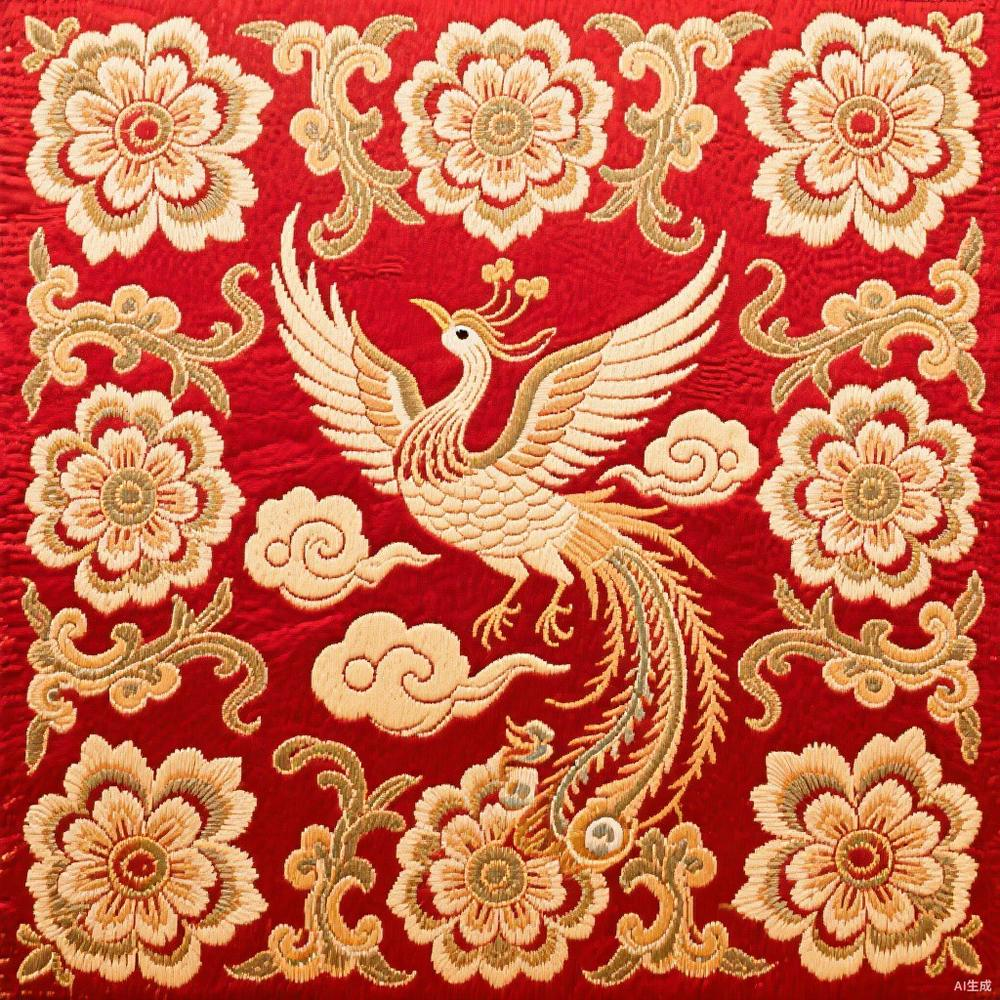
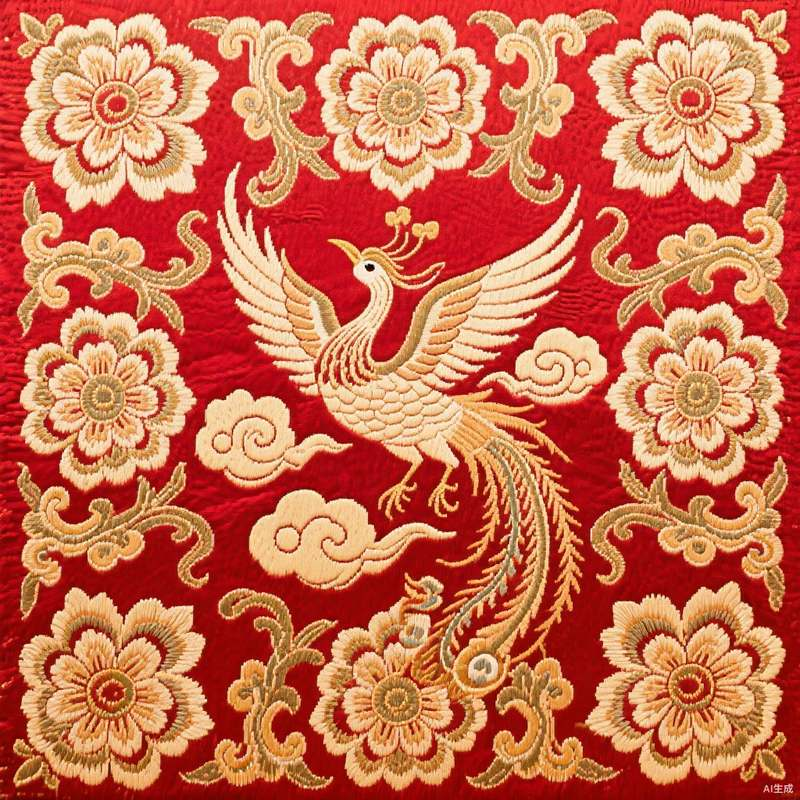
perf: 图片压缩为JPG(5.5MB→2.3MB)并清理嵌套旧目录，修复国内访问加载超时

diff --git a/js/g8-magnifier.js b/js/g8-magnifier.js
@@ -47,7 +47,7 @@
       /* ====== 图片双源预加载：jsDelivr 国内 CDN 优先（快），失败自动回退 GitHub 源 ====== */
       var imgState = {}; // 相对路径 -> {ok, loading, fails, srcIdx, url, im, waiters}
 
-      // 后台加载单张：CDN 源 15 秒超时、GitHub 源 40 秒，各自动重试 2 次
+      // 后台加载单张：CDN 源 8 秒超时、只试 1 次快速回退；GitHub 源 30 秒、重试 3 次
       function fetchImg(rel) {
         var st = imgState[rel] ||
           (imgState[rel] = { ok: false, loading: false, fails: 0, srcIdx: 0, url: null, im: null, waiters: [] });
@@ -57,7 +57,7 @@
         var curUrl = useCdn ? G.cdn(rel) : rel;
         var im = new Image();
         st.im = im;
-        var timer = setTimeout(function () { finish(new Error('timeout')); }, useCdn ? 15000 : 40000);
+        var timer = setTimeout(function () { finish(new Error('timeout')); }, useCdn ? 8000 : 30000);
         function notify(ok, phase) {
           st.waiters.slice().forEach(function (cb) { cb(ok, phase); });
         }
@@ -70,16 +70,16 @@
             st.ok = true; st.fails = 0; st.url = curUrl;
             notify(true, 'ok');
             st.waiters = [];
-          } else if (st.fails < 2) {
-            st.fails++;
-            notify(false, 'retrying'); // UI 显示"重试中"，等待者保留
-            again(2000);
           } else if (st.srcIdx === 0) {
-            st.srcIdx = 1; st.fails = 0;   // CDN 两路重试均败 → 切 GitHub 源
+            st.srcIdx = 1; st.fails = 0;   // CDN 一次不通立刻切 GitHub 源，不浪费时间
             notify(false, 'retrying');
-            again(1500);
+            again(800);
+          } else if (st.fails < 3) {
+            st.fails++;
+            notify(false, 'retrying');
+            again(2000);
           } else {
-            notify(false, 'fatal');    // 通知显示手动重试按钮，等待者保留
+            notify(false, 'fatal');
           }
         }
         im.onload = function () { finish(null); };
@@ -114,8 +114,8 @@
           '</div>' +
           '<div class="mag-wrap">' +
             '<div class="mag-board"><div class="mag-lens"></div>' +
-              '<div class="mag-mask"><span class="mag-spinner"></span><span class="mag-mask-text">织锦生成中 · 请稍候</span>' +
-              '<button type="button" class="mag-retry" hidden>图片生成失败，点此重新加载</button></div>' +
+              '<div class="mag-mask"><span class="mag-spinner"></span><span class="mag-mask-text">图片加载中 · 请稍候</span>' +
+              '<button type="button" class="mag-retry" hidden>图片加载失败，点此重新加载</button></div>' +
             '</div>' +
             '<div class="mag-side">' +
               '<h3>第 ' + (roundIdx + 1) + ' / 4 幅锦样</h3>' +
@@ -144,12 +144,12 @@
           mask.hidden = false;
           if (mode === 'fatal') {
             spinner.hidden = true;
-            maskText.textContent = '织锦生成遇到问题';
+            maskText.textContent = '图片加载遇到问题';
             retryBtn.hidden = false;
           } else {
             spinner.hidden = false;
             retryBtn.hidden = true;
-            maskText.textContent = mode === 'retrying' ? '生成重试中 · 请稍候' : '织锦生成中 · 请稍候';
+            maskText.textContent = mode === 'retrying' ? '正在切换线路 · 请稍候' : '图片加载中 · 请稍候';
           }
         }
         function applyImage() {

diff --git a/index.html b/index.html
@@ -4,7 +4,7 @@
 <meta charset="UTF-8">
 <meta name="viewport" content="width=device-width, initial-scale=1.0">
 <title>德阳文化探秘 · 九大讲解员互动小游戏</title>
-<link rel="stylesheet" href="style.css?v=28">
+<link rel="stylesheet" href="style.css?v=29">
 </head>
 <body>
 
@@ -43,17 +43,17 @@
   <button id="resetBtn2" class="link-btn">重置收集进度</button>
 </footer>
 
-<script src="js/common.js?v=28"></script>
-<script src="js/g1-puzzle.js?v=28"></script>
-<script src="js/g2-scratch.js?v=28"></script>
-<script src="js/g3-balloons.js?v=28"></script>
-<script src="js/g4-coloring.js?v=28"></script>
-<script src="js/g5-hidden.js?v=28"></script>
-<script src="js/g6-rain.js?v=28"></script>
-<script src="js/g7-dialogue.js?v=28"></script>
-<script src="js/g8-magnifier.js?v=28"></script>
-<script src="js/g9-cooking.js?v=28"></script>
-<script src="js/main.js?v=28"></script>
-<script src="js/report.js?v=28"></script>
+<script src="js/common.js?v=29"></script>
+<script src="js/g1-puzzle.js?v=29"></script>
+<script src="js/g2-scratch.js?v=29"></script>
+<script src="js/g3-balloons.js?v=29"></script>
+<script src="js/g4-coloring.js?v=29"></script>
+<script src="js/g5-hidden.js?v=29"></script>
+<script src="js/g6-rain.js?v=29"></script>
+<script src="js/g7-dialogue.js?v=29"></script>
+<script src="js/g8-magnifier.js?v=29"></script>
+<script src="js/g9-cooking.js?v=29"></script>
+<script src="js/main.js?v=29"></script>
+<script src="js/report.js?v=29"></script>
 </body>
 </html>
